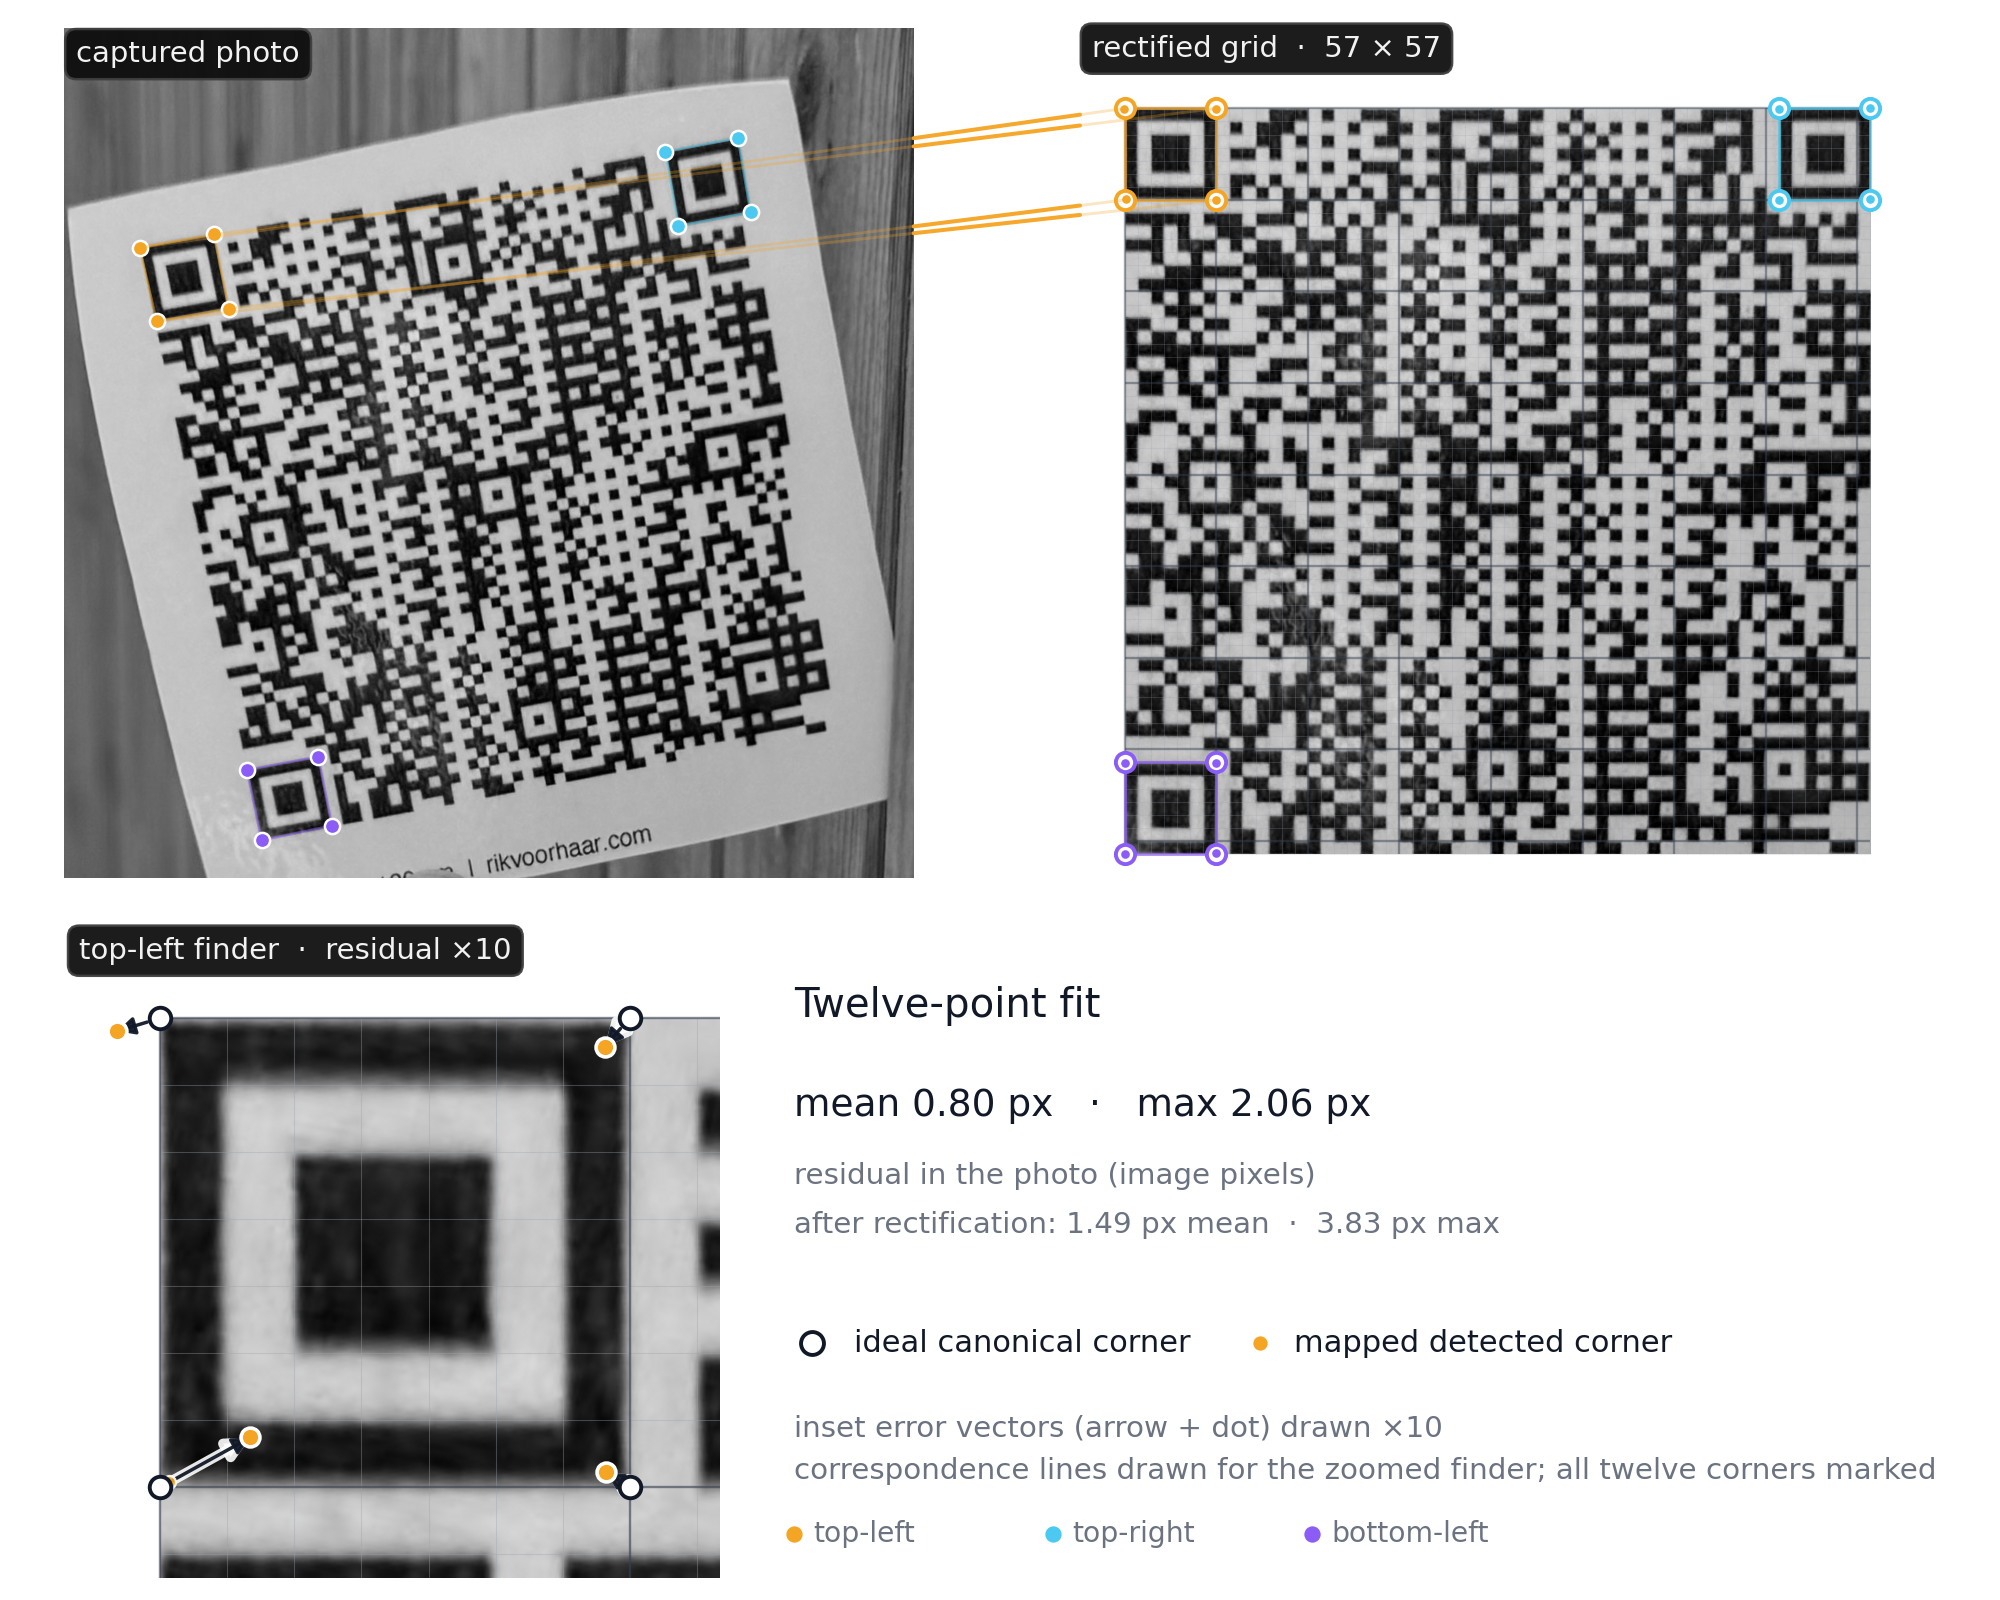
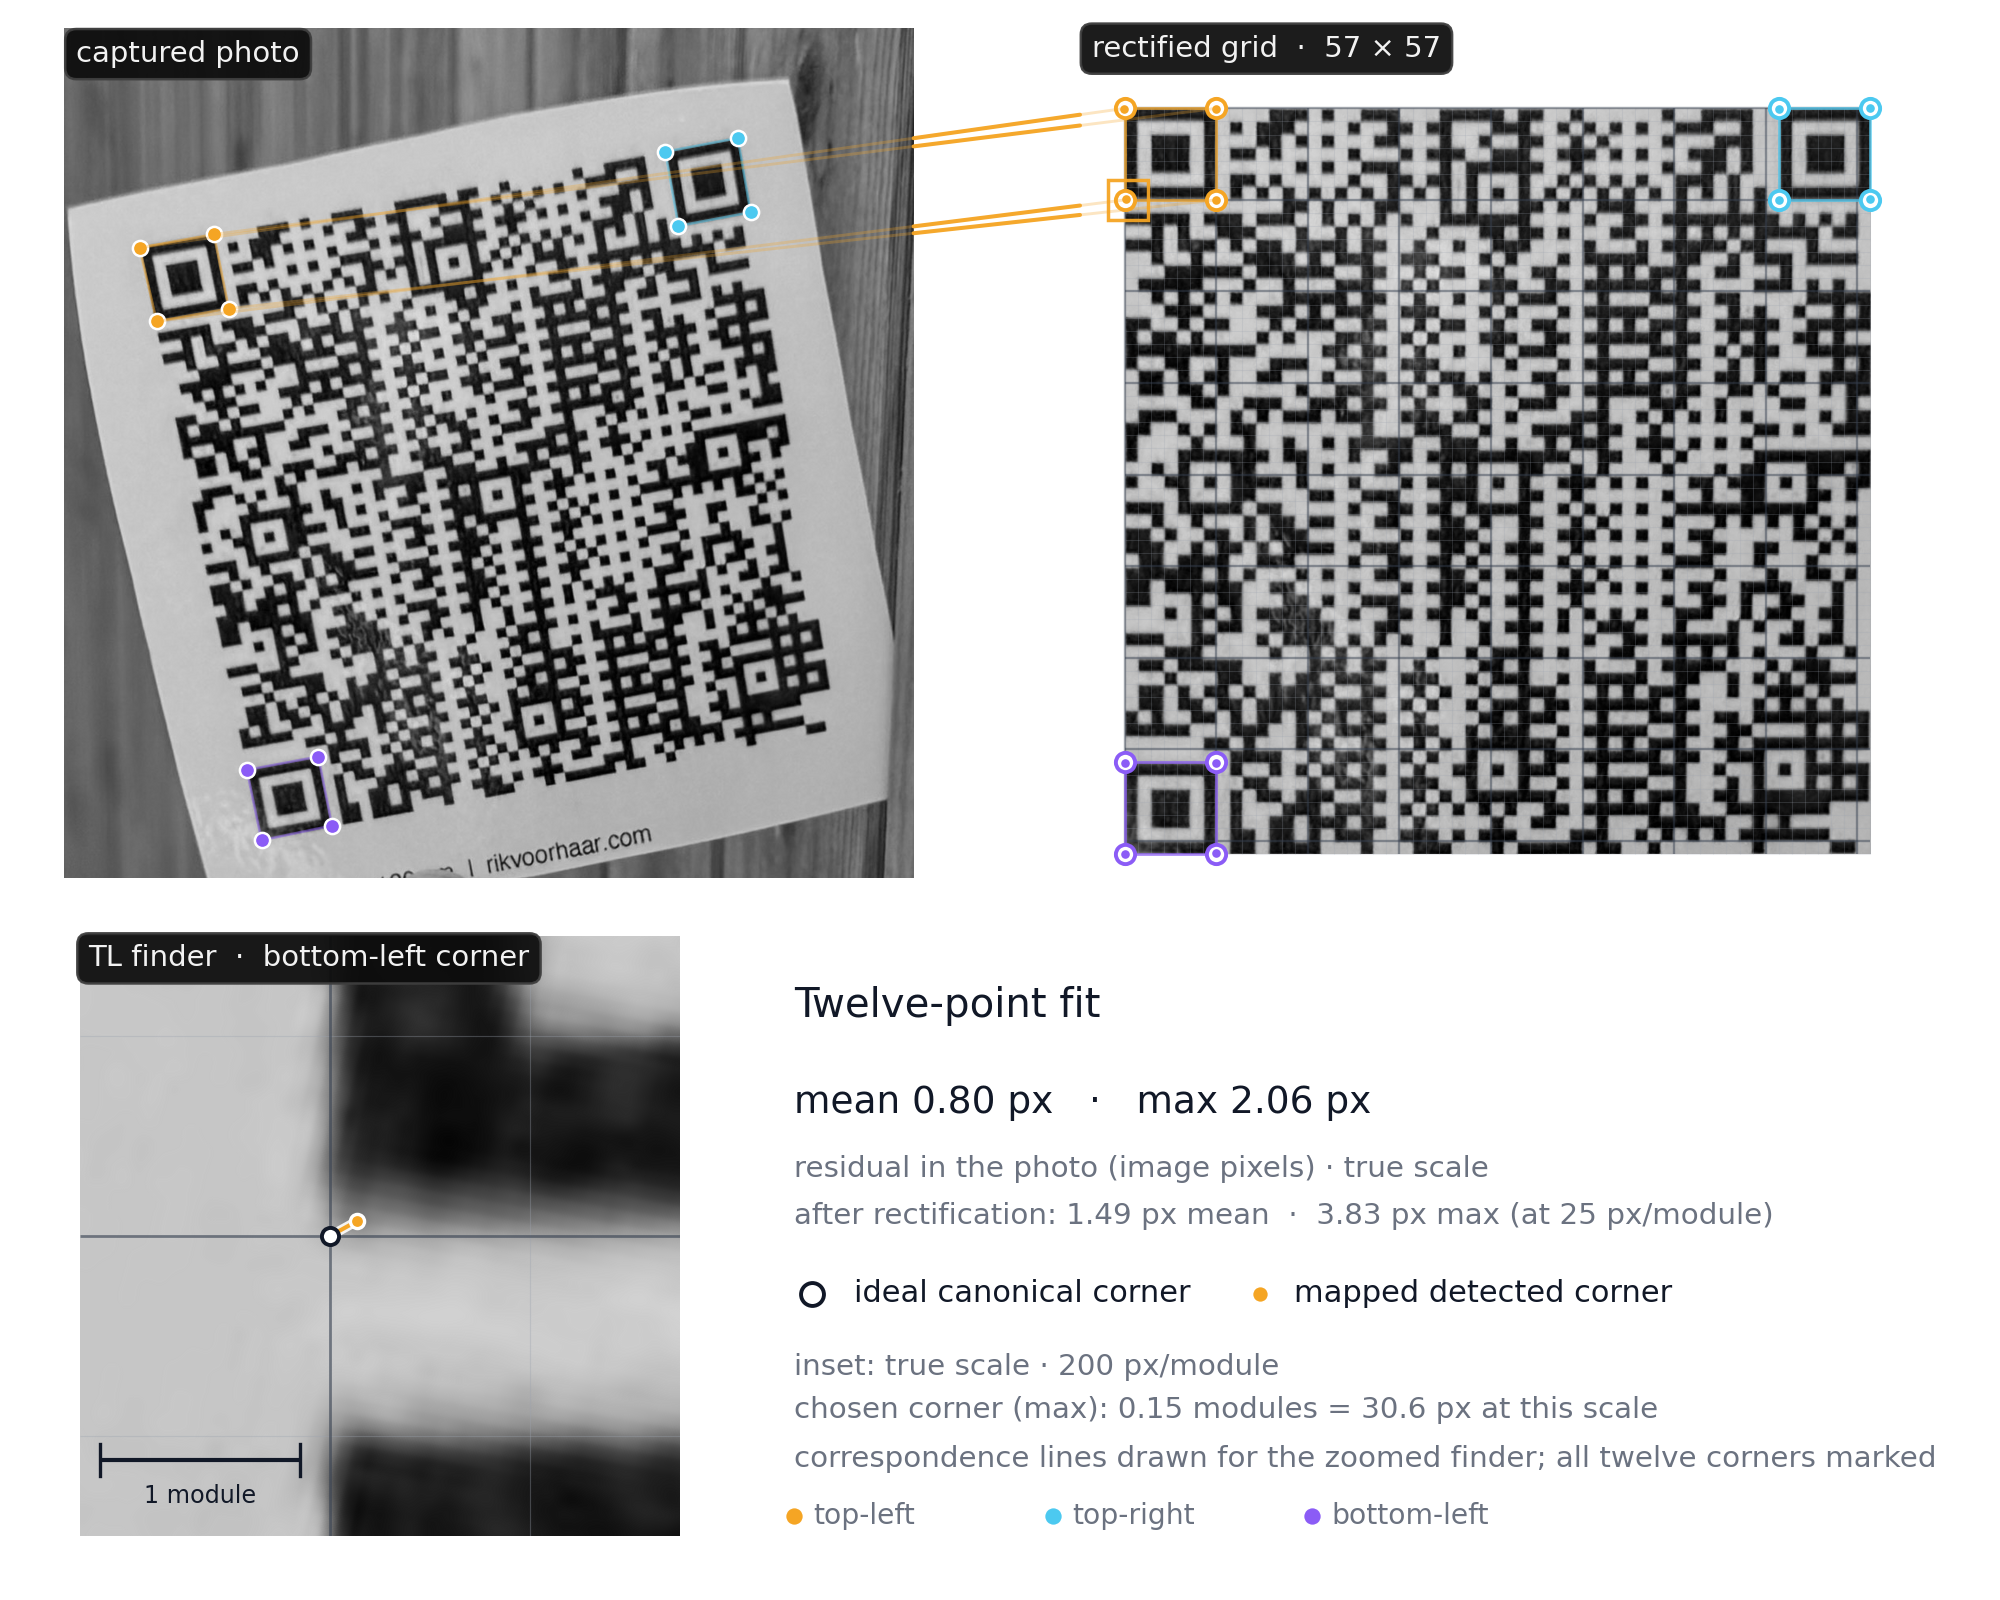
Use a true-scale corner zoom in the homography figure

Changed region(s): [[0.031, 0.5625, 0.961, 1.0]]

diff --git a/ai-docs/qr-reader-plan.html b/ai-docs/qr-reader-plan.html
@@ -1036,10 +1036,11 @@ colinear_pairs: [(0, 0), (0, 2), (2, 0), (2, 2)]</code></pre>
 							<strong class="text-stone-200">Homography figure (done):</strong> left, the warped
 							photo cropped to the QR with the twelve detected finder corners; right, the rectified
 							top-down QR with a module grid and the twelve canonical corners. Only the top-left
-							finder's four correspondence lines are drawn; all twelve corners are marked. A zoom
-							inset shows the ideal canonical corners and the mapped detected corners, with
-							residuals exaggerated ×10. Photo <code>qr_code_ - 20.jpeg</code> (v10); image-plane
-							fit mean 0.80 px, max 2.06 px. Asset <code>homography.png</code>.
+							finder's four correspondence lines are drawn; all twelve corners are marked. The inset
+							zooms to a 3×3 module region around the top-left finder's bottom-left corner at 200
+							px/module, with the ideal and mapped points connected at true scale. No exaggeration.
+							Photo <code>qr_code_ - 20.jpeg</code> (v10); image-plane fit mean 0.80 px, max 2.06
+							px; chosen corner 0.15 modules. Asset <code>homography.png</code>.
 						</li>
 						<li>
 							<strong class="text-stone-200">Cross-ratio figure:</strong> the same version-10 photo
@@ -1217,8 +1218,9 @@ colinear_pairs: [(0, 0), (0, 2), (2, 0), (2, 2)]</code></pre>
 						<li>
 							<strong class="text-stone-100">2026-11-14</strong> — Finished the homography figure:
 							warped crop, rectified 57×57 grid, twelve marked corners, top-left correspondence
-							lines, and a zoom inset with residuals exaggerated ×10. Version-10 photo, image-plane
-							fit mean 0.80 px and max 2.06 px.
+							lines, and a true-scale 3×3 corner zoom at 200 px/module with no exaggeration.
+							Version-10 photo, image-plane fit mean 0.80 px and max 2.06 px; chosen corner 0.15
+							modules.
 						</li>
 					</ul>
 				</section>
